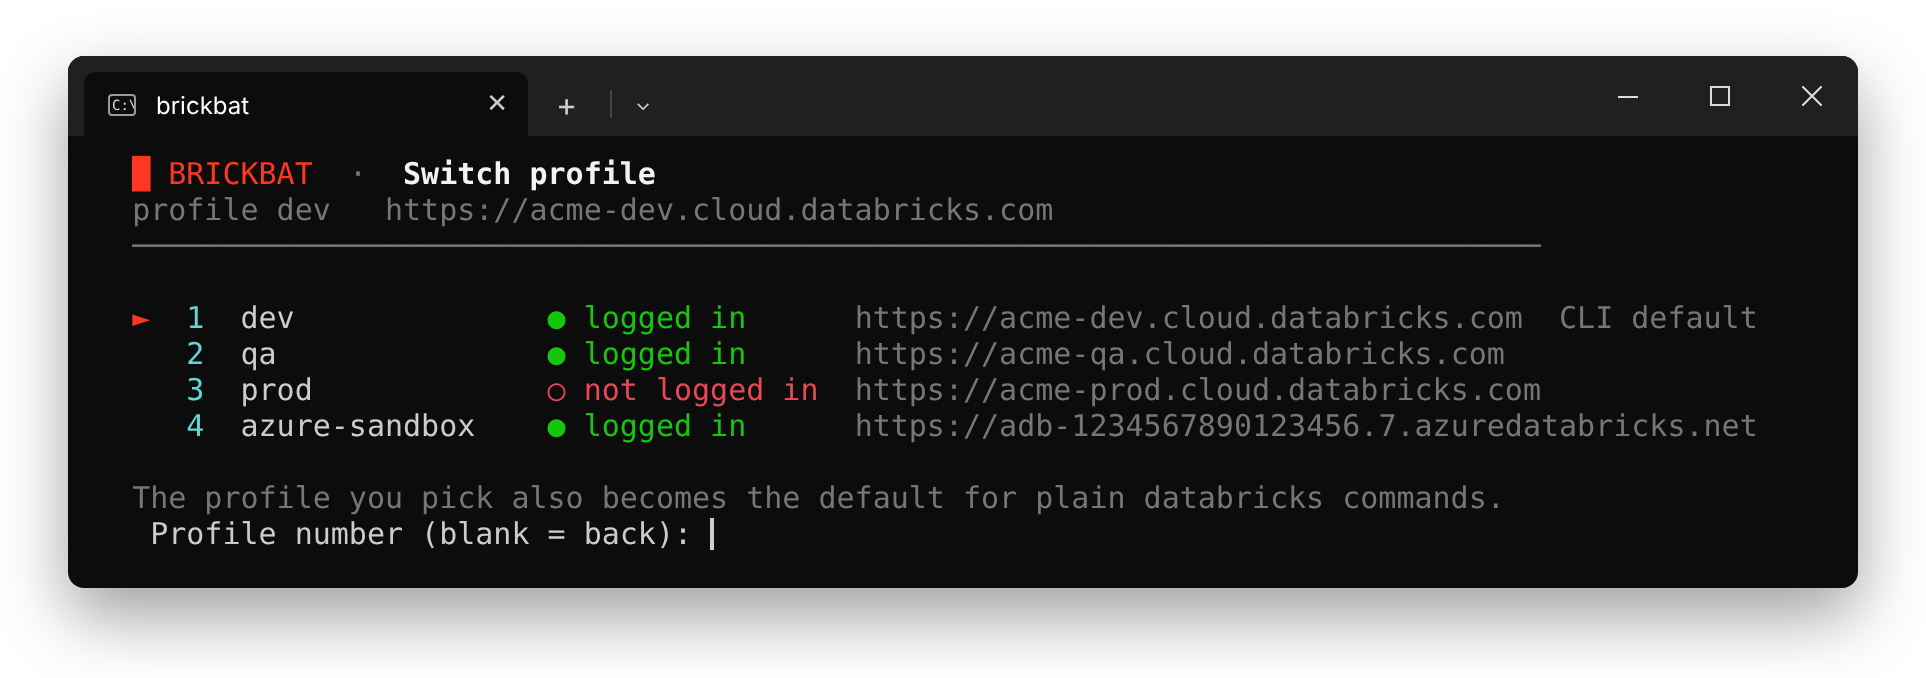
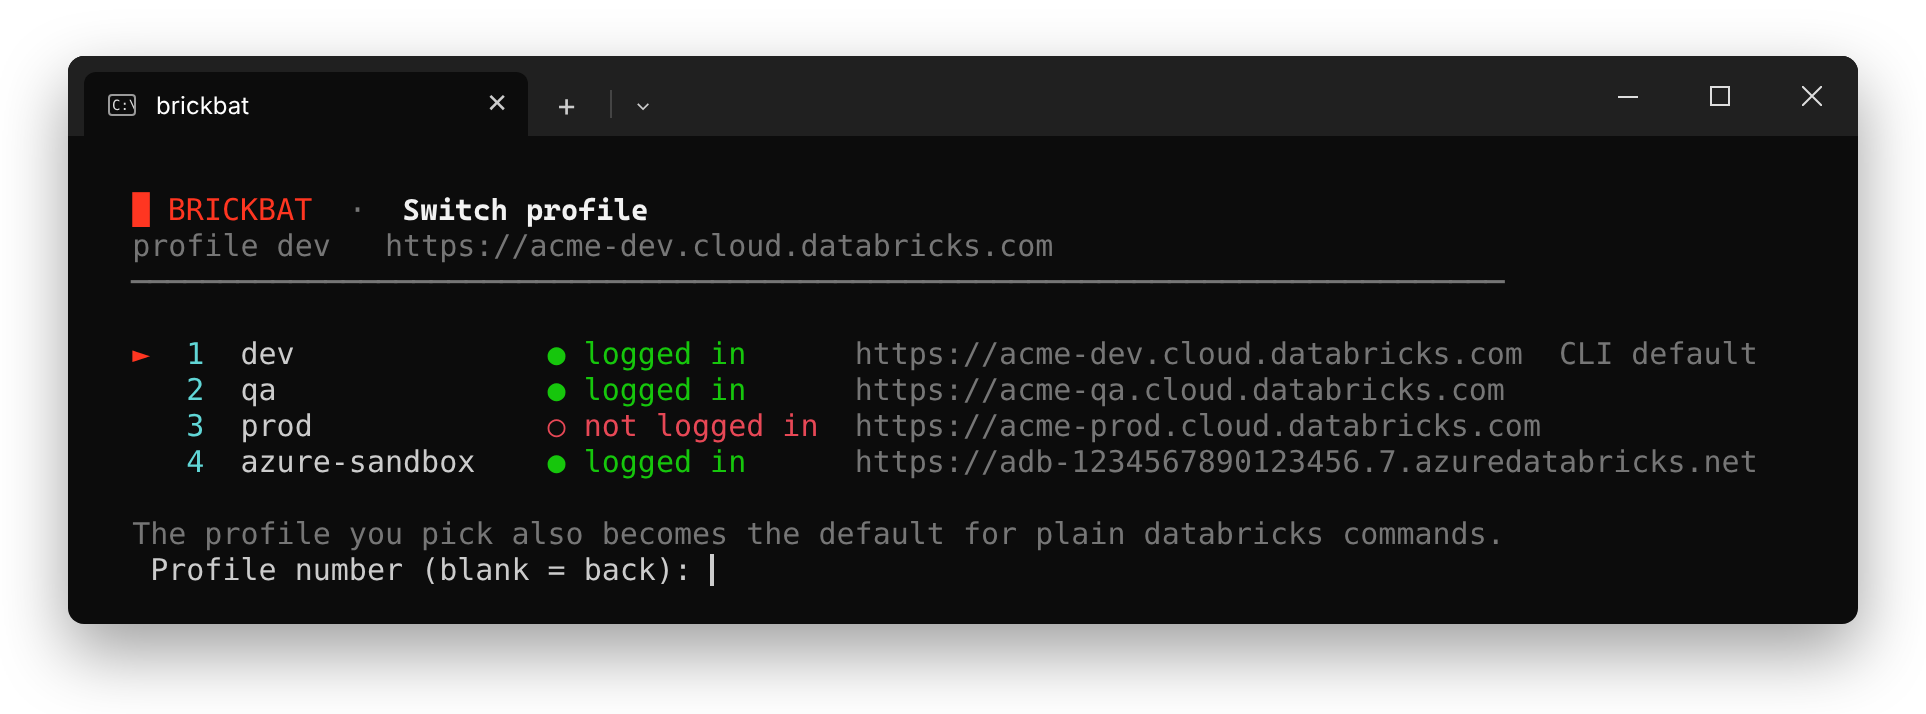
Fix review findings in favourites and the screenshots
Favourites: saving rewrites favourites.txt first, so a hand-edited file
without a final newline can't swallow the new entry or duplicate it.
The empty hint names the workspace, and a favourite whose scope was
deleted elsewhere says so instead of asking for MANAGE.

First run: winget's 'no newer version' exit code means the CLI is
already installed, so it counts as done.

Screenshots: render in Cascadia Mono (the font was never loaded), keep
each screen's first blank line, show the same scope the same way in
compare and scope, show real CLI output in the terminal, and use scope
names that are fully made up.

Claude-Session: https://claude.ai/code/session_0166UvEzCrps46uAeYkWpFtU

diff --git a/tools/render-screenshots.js b/tools/render-screenshots.js
@@ -2,13 +2,17 @@
 // Layout follows brickbat.bat: same prefixes, padding widths and colours (Campbell scheme),
 // so update a screen here when its menu changes in the script.
 //
-//   cd tools && npm install && node render-screenshots.js ../docs/screenshots [screen ...]
+//   cd tools && npm install && npx playwright install chromium
+//   node render-screenshots.js ../docs/screenshots [screen ...]
 const { chromium } = require('playwright');
 const path = require('path');
 const fs = require('fs');
 
 const OUT = process.argv[2];
 const FONT = path.join(__dirname, 'node_modules/@fontsource/cascadia-mono/files');
+// inlined, because a page made with setContent() may not load file:// fonts
+const font = (n) => 'data:font/woff2;base64,' +
+  fs.readFileSync(path.join(FONT, `cascadia-mono-${n}-normal.woff2`)).toString('base64');
 
 // ---- segments ---------------------------------------------------------------
 const seg = (c) => (t) => ({ c, t });
@@ -118,18 +122,17 @@ screens['secrets-menu'] = [
 ];
 
 const ALL = [
-  'analytics-sandbox', 'analytics.dev.secrets', 'analytics.dev.sp.secret_scope', 'analytics_exports',
-  'billing-api', 'crm_sync.dev.sp.secret_scope', 'data-platform-admin',
-  'finance_reporting.dev.sp.secret_scope', 'ingest_dev', 'kafka.ingest.dev', 'marketing.dev.secrets',
+  'analytics-sandbox', 'analytics.dev.legacy', 'analytics.dev.secrets', 'analytics_exports',
+  'billing-api', 'crm-sync.dev', 'data-platform-admin', 'finance-reports.dev', 'ingest_dev', 'kafka.ingest.dev', 'marketing.dev.secrets',
   'ml-feature-store', 'payments.dev.secrets', 'search-index.dev', 'warehouse.dev.secrets',
 ];
 // 214 rows scroll past, so the window shows the end of the list, as a real terminal does
 const TAIL = [
   'search-index.dev', 'sharepoint-sync', 'slack-alerts', 'snowflake-migration',
-  'spark-streaming.dev.secrets', 'support-tools', 'tableau-extracts', 'talent.dev.sp.secret_scope',
+  'spark-streaming.dev.secrets', 'support-tools', 'tableau-extracts', 'tax-engine.dev',
   'telemetry.dev.secrets', 'terraform-ci', 'translations-api', 'user-events.dev', 'vault-sync',
   'warehouse.dev.secrets', 'weather-feed', 'web-analytics.dev.secrets',
-  'workday.dev.sp.secret_scope', 'zendesk-export',
+  'workflows-api', 'zendesk-export',
 ];
 screens['scope-list'] = [
   ...TAIL.map((n, i) => listRow(214 - TAIL.length + 1 + i, n)),
@@ -142,7 +145,7 @@ screens['scope-list'] = [
   ...choose(),
 ];
 
-const FILTERED = ['analytics-sandbox', 'analytics.dev.secrets', 'analytics.dev.sp.secret_scope',
+const FILTERED = ['analytics-sandbox', 'analytics.dev.legacy', 'analytics.dev.secrets',
   'analytics_exports', 'web-analytics.dev.secrets'];
 screens['scope-filter'] = [
   ...screen('Scopes in dev'),
@@ -200,8 +203,10 @@ screens['compare'] = [
   line('  ', d('Checking logins...')),
   line(),
   ...cmpEnv(PROFILES[0], 'analytics.dev.secrets',
-    [['api_key', '2026-07-28 11:30 UTC'], ['warehouse_token', '2026-09-20 10:00 UTC']],
-    [['data-platform-admins', 'MANAGE'], ['analytics-engineers', 'WRITE'], ['analytics-readers', 'READ']]),
+    [['api_key', '2026-07-28 11:30 UTC'], ['service_account.json', '2026-05-02 08:15 UTC'],
+      ['warehouse_token', '2026-09-20 10:00 UTC']],
+    [['data-platform-admins', 'MANAGE'], ['analytics-engineers', 'WRITE'], ['analytics-readers', 'READ'],
+      ['7c1e9a52-3f4b-4d8e-9a61-2b5c8d0e4f17', 'MANAGE']]),
   ...cmpEnv(PROFILES[1], 'analytics.qa.secrets',
     [['api_key', '2026-08-04 09:12 UTC']],
     [['data-platform-admins', 'MANAGE'], ['analytics-readers', 'READ']]),
@@ -241,10 +246,9 @@ screens['terminal'] = [
   line(),
   line('  ', d('Try:  databricks current-user me     databricks clusters list     databricks secrets list-scopes')),
   line(),
-  PS('databricks secrets list-scopes'),
-  line('Scope                                  Backend Type'),
-  ...ALL.slice(0, 8).map((n) => line(P(n, 39), 'DATABRICKS')),
-  line('...'),
+  // piped, so the CLI prints no colours; the column fits the longest scope name in the workspace
+  PS('databricks secrets list-scopes | findstr analytics'),
+  ...FILTERED.map((n) => line(P(n, 29), 'DATABRICKS')),
   line(),
   [...PS(''), CURSOR],
 ];
@@ -252,9 +256,9 @@ screens['terminal'] = [
 // ---- page -------------------------------------------------------------------
 const esc = (s) => s.replace(/&/g, '&amp;').replace(/</g, '&lt;').replace(/>/g, '&gt;');
 const html = (lines, cols) => `<!doctype html><html><head><meta charset="utf-8"><style>
-@font-face{font-family:Cascadia;src:url(file://${FONT}/cascadia-mono-latin-400-normal.woff2);font-weight:400;unicode-range:U+0000-00FF,U+2000-206F}
-@font-face{font-family:Cascadia;src:url(file://${FONT}/cascadia-mono-latin-700-normal.woff2);font-weight:700;unicode-range:U+0000-00FF,U+2000-206F}
-@font-face{font-family:Cascadia;src:url(file://${FONT}/cascadia-mono-symbols2-400-normal.woff2);font-weight:400 700;unicode-range:U+2500-259F}
+@font-face{font-family:Cascadia;src:url(${font('latin-400')});font-weight:400;unicode-range:U+0000-00FF,U+2000-206F}
+@font-face{font-family:Cascadia;src:url(${font('latin-700')});font-weight:700;unicode-range:U+0000-00FF,U+2000-206F}
+@font-face{font-family:Cascadia;src:url(${font('symbols2-400')});font-weight:400 700;unicode-range:U+2500-259F}
 html,body{margin:0;background:transparent}
 .pad{display:inline-block;padding:28px 34px 40px}
 .win{display:inline-block;background:#0c0c0c;border-radius:8px;overflow:hidden;
@@ -281,7 +285,8 @@ pre{margin:0;padding:10px 14px 18px;font:15px/18px Cascadia,"DejaVu Sans Mono",m
 <div class="ctl"><span><svg width="10" height="10"><path d="M0 5.5h10"/></svg></span>
 <span><svg width="10" height="10"><rect x=".5" y=".5" width="9" height="9"/></svg></span>
 <span><svg width="10" height="10"><path d="M0 0l10 10M10 0L0 10"/></svg></span></div></div>
-<pre>${lines.map((l) => l.map((s) => s.c ? `<span class="${s.c}">${esc(s.t)}</span>` : esc(s.t)).join('')).join('\n')}</pre>
+<pre>
+${lines.map((l) => l.map((s) => s.c ? `<span class="${s.c}">${esc(s.t)}</span>` : esc(s.t)).join('')).join('\n')}</pre>
 </div></div></body></html>`;
 
 (async () => {
